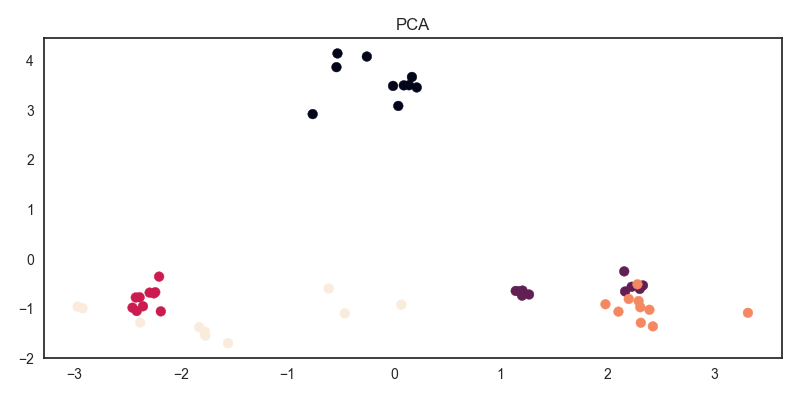
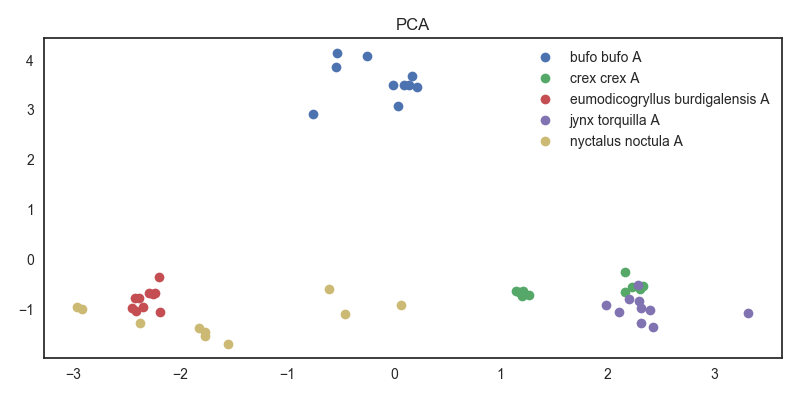
better colors for dimensionality reduction images

diff --git a/codes/dimensionality_reduction.py b/codes/dimensionality_reduction.py
@@ -11,12 +11,19 @@ from sklearn.preprocessing import LabelEncoder, scale
 from clusterapp.features import Audio
 
 TESTING_DIR = '../sounds/testing'
+CATEGORIES = [
+    'bufo bufo A',
+    'crex crex A',
+    'eumodicogryllus burdigalensis A',
+    'jynx torquilla A',
+    'nyctalus noctula A'
+]
 
 
-def load_data(categories):
+def load_data():
     X, y = [], []
 
-    for c in categories:
+    for c in CATEGORIES:
         for i in range(1, 11):
             path = pathlib.Path(os.path.join(TESTING_DIR, '%s-%d.wav' % (c, i)))
             audio = Audio(path)
@@ -28,6 +35,7 @@ def load_data(categories):
     le = LabelEncoder()
     le.fit(y)
     y = le.transform(y)
+    print(le.classes_)
 
     return scale(X), y
 
@@ -35,22 +43,13 @@ def load_data(categories):
 def main():
     sns.set()
     sns.set_style('white')
-    sns.set_palette('husl')
-
     np.random.seed(170)
 
-    categories = [
-        'bufo bufo A',
-        'crex crex A',
-        'eumodicogryllus burdigalensis A',
-        'jynx torquilla A',
-        'nyctalus noctula A'
-    ]
-    X, y = load_data(categories)
+    X, y = load_data()
 
     fig, ax = pl.subplots(1, 1, figsize=(8, 4))
     fig.subplots_adjust(left=0.05, right=0.97)
-    plot(X, y, PCA(n_components=2), ax, 'PCA')
+    plot(X, y, PCA(n_components=2), ax, 'PCA', True)
     fig.show()
 
     fig, ax = pl.subplots(2, 2, figsize=(12, 8))
@@ -68,10 +67,16 @@ def main():
     fig.show()
 
 
-def plot(X, y, algorithm, ax, title):
+def plot(X, y, algorithm, ax, title, show_legend=False):
     X = algorithm.fit_transform(X)
-    ax.scatter(X[:, 0], X[:, 1], c=y)
+
+    for label in set(y):
+        x = X[y == label, :]
+        ax.plot(x[:, 0], x[:, 1], 'o', label=CATEGORIES[label])
+
     ax.set_title(title)
+    if show_legend:
+        ax.legend()
 
 
 if __name__ == '__main__':
